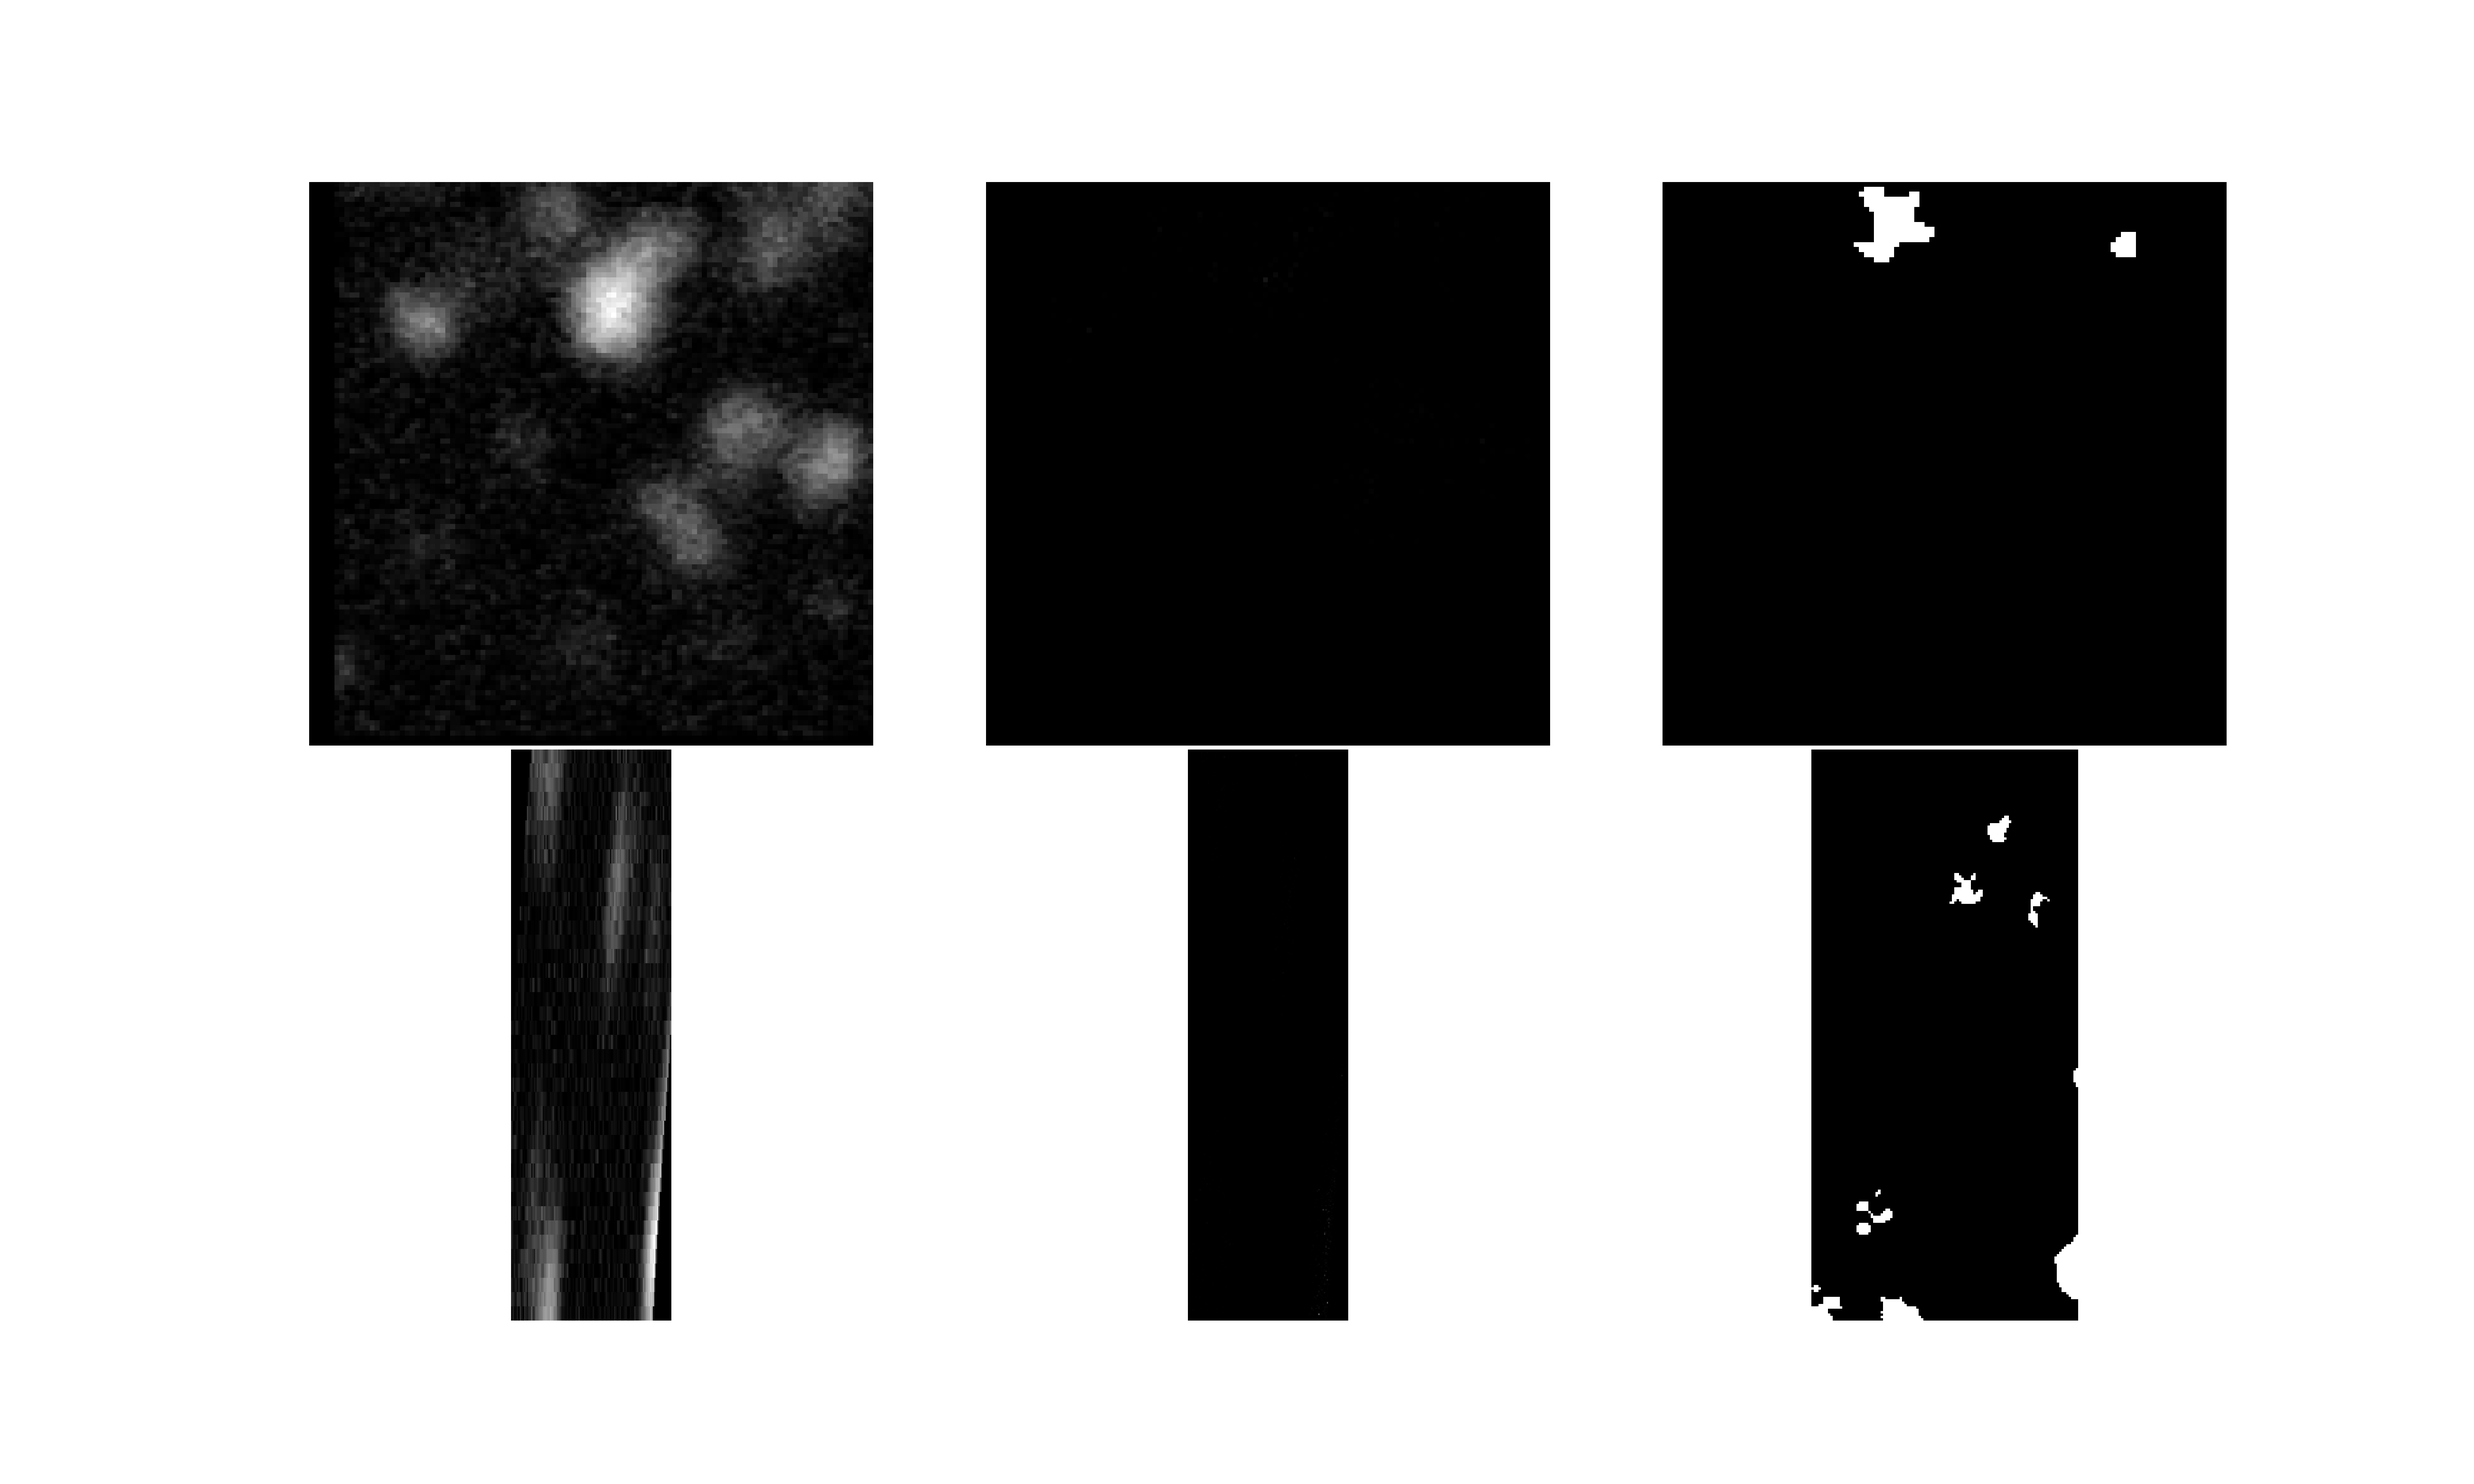
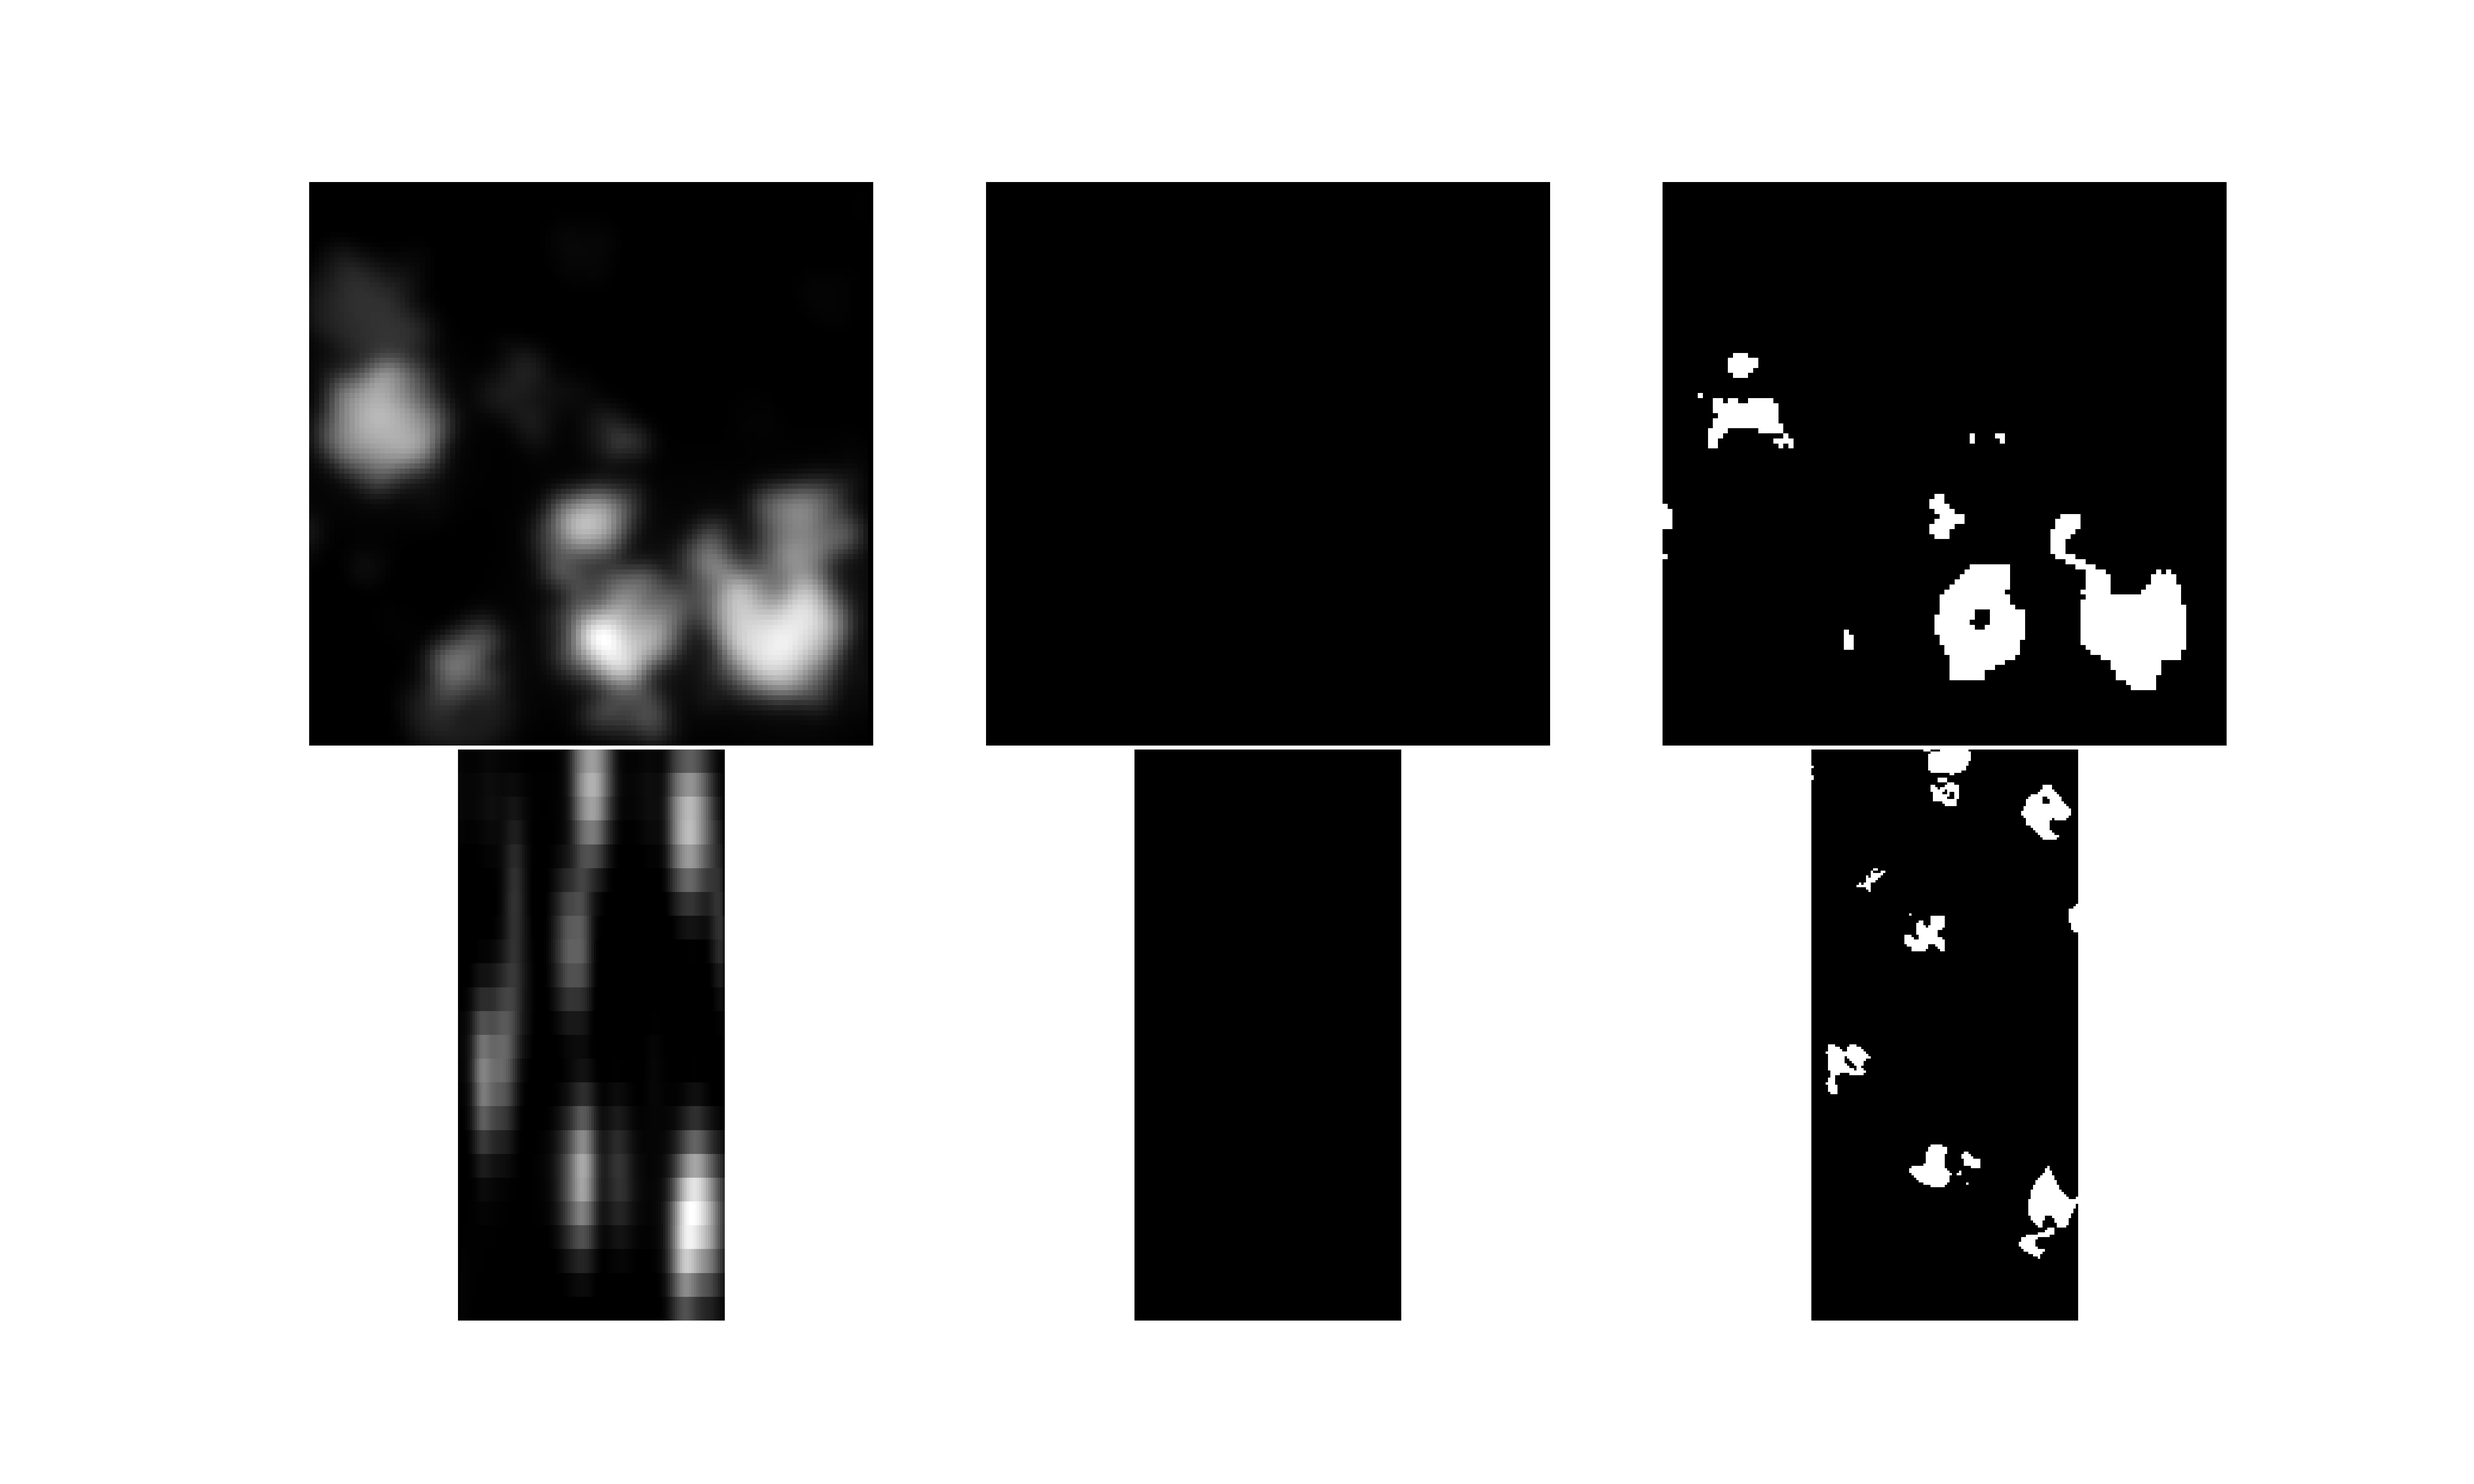
result image in inference written

diff --git a/inference.py b/inference.py
@@ -11,12 +11,14 @@ import model_new as model
 import old_model
 from dataset import Vibrate
 
-
 vibrate = Vibrate()
 
 class PretrainingInference():
     def __init__(self, model_name):
         self.model_name = model_name
+        self.device = (torch.device('cuda') if torch.cuda.is_available()
+              else torch.device('cpu'))
+        
 
         config = open(os.path.join("experiments/configs", f"{model_name}.json"))
         self.configs         = json.load(config)
@@ -25,7 +27,7 @@ class PretrainingInference():
         val_dataset_params   = self.configs["pretrain_val_dataset"]
 
         JNet = model.JNet(self.params)
-        self.JNet = JNet.to(device = device)
+        self.JNet = JNet.to(device = self.device)
         self.JNet.load_state_dict(torch.load(f'model/{model_name}.pt'), strict=False)
 
         val_dataset   = RandomCutDataset(
@@ -56,7 +58,7 @@ class PretrainingInference():
     def get_result(self, num_results)->list:
         results = []
         for n, val_data in enumerate(self.val_loader):
-            if n >= 5:
+            if n >= num_results:
                 break
             if self.configs["pretrain_loop"]["is_instantblur"]:
                 label = val_data[1].to(device = self.device)
@@ -65,79 +67,87 @@ class PretrainingInference():
                 image = self.JNet.image.noise(image)
                 image = self.JNet.image.preprocess(image)
             else:
-                image    = val_data[0].to(device = device)
-                label    = val_data[1].to(device = device)
+                image    = val_data[0].to(device = self.device)
+                label    = val_data[1].to(device = self.device)
             image   = vibrate(image).detach().clone()
             outdict = self.JNet(image)
             output  = outdict["enhanced_image"]
             qloss   = outdict["quantized_loss"]
+            qloss = qloss.item() if qloss is not None else 0
             image   = image[0].detach().cpu().numpy()
             label   = label[0].detach().cpu().numpy()
             output  = output[0].detach().cpu().numpy()
-            results.append([image, output, label, qloss.item()])
+            results.append([image, output, label, qloss])
         return results
         
     def evaluate(self, results)->list:
         mses = []
         bces = []
-        for n, [image, output, label, qloss] in results:
+        for n, [image, output, label, qloss] in enumerate(results):
             mse = np.mean(((label - output) ** 2).flatten())
-            bce = np.mean((label*np.log(output) + (1. - label)*np.log(1. - output)).flatten())
+            bce = np.mean(-(label*np.log(output) + (1. - label)*np.log(1. - output)).flatten())
             mses.append(mse)
             bces.append(bce)
         return {"MSE": mses,
                 "BCE": bces,}
 
-    def visualize(self, results, path):
-        for n, [image, output, label, qloss] in results:
-            j   = 12
+    def visualize(self, results):
+        for n, [image, output, label, qloss] in enumerate(results):
+            path = self.configs["visualization"]["path"] 
+            j   = self.configs["visualization"]["z_stack"]
             j_s = j // self.params["scale"]
-            i = 64
+            i   = self.configs["visualization"]["x_slice"]
             mip = self.configs["visualization"]["mip"]
             mip_s = mip * self.params["scale"]
 
             image_xy  = np.max(image [0, j_s:j_s+mip_s, :, :], axis=0)
-            output_xy = np.max(output[0, j  :j+mip, :, :], axis=0)
-            label_xy  = np.max(label [0, j  :j+mip, :, :], axis=0)
-            image_z   = np.max(image [0, :  , i:i+mip, :], axis=0)
-            output_z  = np.max(output[0, :  , i:i+mip, :], axis=0)
-            label_z   = np.max(label [0, :  , i:i+mip, :], axis=0)
-            fig = plt.figure()
-            fig.imshow(image_xy, cmap='gray', vmin=0.0, aspect=1)
-            plt.savefig()
+            output_xy = np.max(output[0, j  :j+mip, :, :]    , axis=0)
+            label_xy  = np.max(label [0, j  :j+mip, :, :]    , axis=0)
+            image_z   = np.max(image [0, :  , i:i+mip, :]    , axis=0)
+            output_z  = np.max(output[0, :  , i:i+mip, :]    , axis=0)
+            label_z   = np.max(label [0, :  , i:i+mip, :]    , axis=0)
+            #fig = plt.figure()
+            plt.axis("off")
+            plt.imshow(image_xy, cmap='gray', vmin=0.0, aspect=1)
+            plt.savefig(path + f'/{self.model_name}_{n}_original_plane.png', 
+                        format='png',dpi=250,bbox_inches='tight',pad_inches=0)
             plt.clf()
             plt.close()
-            fig = plt.figure()
-            fig.imshow(output_xy, cmap='gray', vmin=0.0, aspect=1)
-            plt.savefig()
+            plt.axis("off")
+            plt.imshow(output_xy, cmap='gray', vmin=0.0, aspect=1)
+            plt.savefig(path + f'/{self.model_name}_{n}_output_plane.png',
+                        format='png',dpi=250,bbox_inches='tight',pad_inches=0)
             plt.clf()
             plt.close()
-            fig = plt.figure()
-            fig.imshow(label_xy, cmap='gray', vmin=0.0, aspect=1)
-            plt.savefig()
+            plt.axis("off")
+            plt.imshow(label_xy, cmap='gray', vmin=0.0, aspect=1)
+            plt.savefig(path + f'/{self.model_name}_{n}_label_plane.png',
+                        format='png',dpi=250,bbox_inches='tight',pad_inches=0)
             plt.clf()
             plt.close()
-            fig = plt.figure()
-            fig.imshow(image_z, cmap='gray', vmin=0.0, aspect=self.params["scale"])
-            plt.savefig()
+            plt.axis("off")
+            plt.imshow(image_z, cmap='gray', vmin=0.0, aspect=self.params["scale"])
+            plt.savefig(path + f'/{self.model_name}_{n}_original_depth.png',
+                        format='png',dpi=250,bbox_inches='tight',pad_inches=0)
             plt.clf()
             plt.close()
-            fig = plt.figure()
-            fig.imshow(output_z, cmap='gray', vmin=0.0, aspect=1)
-            plt.savefig()
+            plt.axis("off")
+            plt.imshow(output_z, cmap='gray', vmin=0.0, aspect=1)
+            plt.savefig(path + f'/{self.model_name}_{n}_output_depth.png',
+                        format='png',dpi=250,bbox_inches='tight',pad_inches=0)
             plt.clf()
             plt.close()
-            fig = plt.figure()
-            fig.imshow(label_z, cmap='gray', vmin=0.0, aspect=1)
-            plt.savefig()
+            plt.axis("off")
+            plt.imshow(label_z, cmap='gray', vmin=0.0, aspect=1)
+            plt.savefig(path + f'/{self.model_name}_{n}_label_depth.png',
+                        format='png',dpi=250,bbox_inches='tight',pad_inches=0)
             plt.clf()
             plt.close()
-
 
     def visualize_oldversion(self, results, path='result'):
-        j   = 12
+        j   = self.configs["visualization"]["z_stack"]
         j_s = j // self.params["scale"]
-        i = 64
+        i   = self.configs["visualization"]["x_slice"]
         for n, [image, output, label, qloss] in enumerate(results):
             fig = plt.figure(figsize=(25, 15))
             ax1 = fig.add_subplot(231)
@@ -167,12 +177,12 @@ class PretrainingInference():
                 cmap='gray', vmin=0.0, vmax=1.0, aspect=1)
             plt.savefig(path + f'/{self.model_name}_result_{n}.png',
                 format='png', dpi=250)
-            
-device = (torch.device('cuda') if torch.cuda.is_available()
-          else torch.device('cpu'))
-print(f"Training on device {device}.")
 
-parser = argparse.ArgumentParser(description='inference for simulation data')
-parser.add_argument('model_name')
-parser.add_argument("--check_pretrained", default=False)
-args   = parser.parse_args()
+if __name__ == "__main__":
+    parser = argparse.ArgumentParser(description='inference for simulation data')
+    parser.add_argument('model_name')
+    args   = parser.parse_args()
+    inference = PretrainingInference(args.model_name)
+    results = inference.get_result(5)
+    print(inference.evaluate(results))
+    inference.visualize(results)
